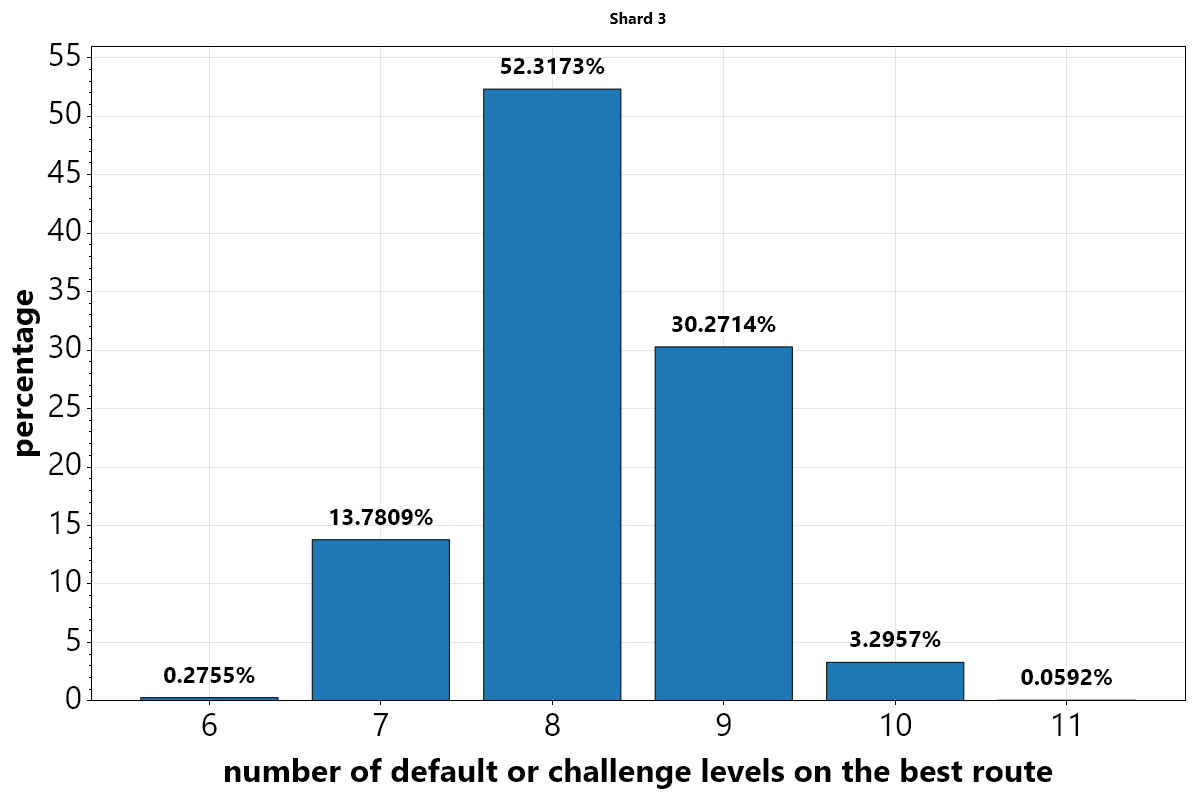
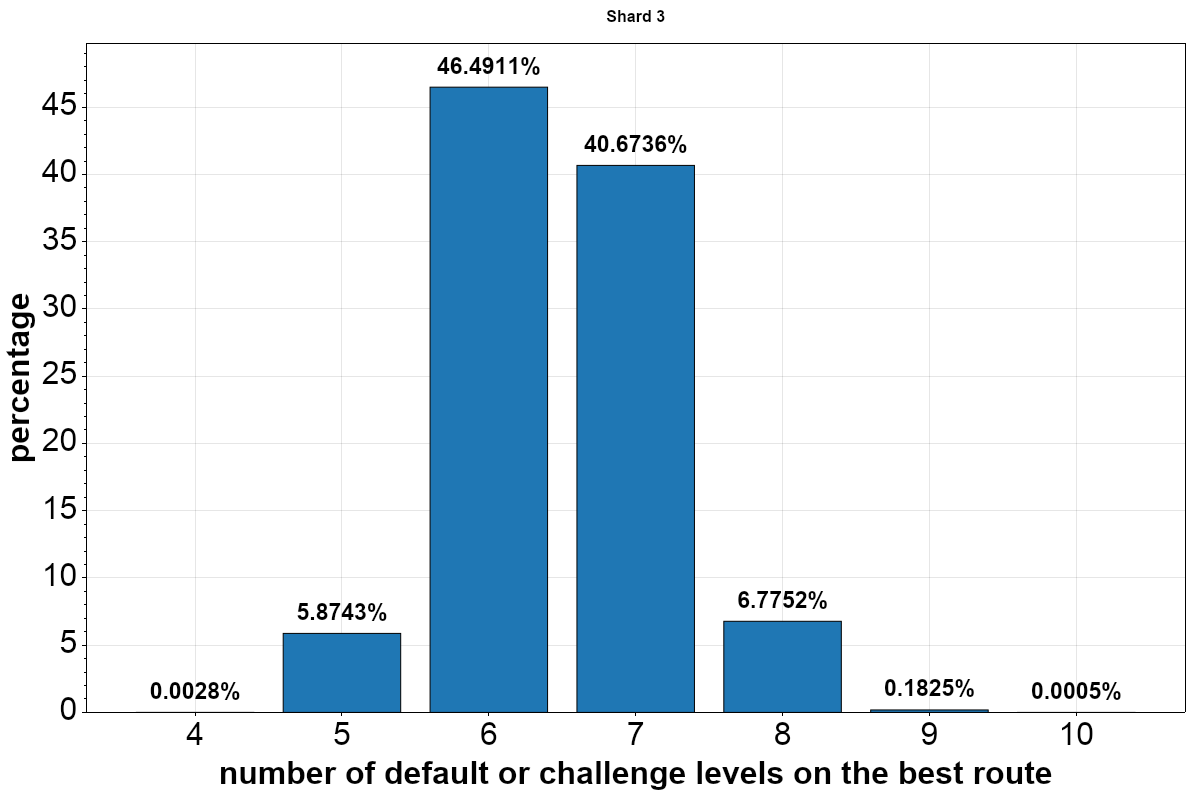
docs: Update analysis for new node count

diff --git a/README.md b/README.md
@@ -10,10 +10,8 @@ You can view layouts using the latest generator at <https://haste.razzleware.de>
 
 Note: The following plots apply to the latest released generator. For analysis of the demo and experimental generator, see [this commit](https://github.com/frereit/haste-world-gen/blob/84093923d5fad3641e5ec86307d1c916ada0c78b/README.md#analysis).
 
-In this analysis, the first one million seeds of every shard were analysed and the best routes were counted. The first forced level of each shard counts towards the default levels in the route, and the shards are 0-indexed so the first shard is "shard 0".
+In this analysis, the first one million seeds of every shard were analysed and the best routes were counted. The first forced level of each shard is not counted.
 
-
-![Shard 0](media/shard0.png)
 ![Shard 1](media/shard1.png)
 ![Shard 2](media/shard2.png)
 ![Shard 3](media/shard3.png)
@@ -23,6 +21,7 @@ In this analysis, the first one million seeds of every shard were analysed and t
 ![Shard 7](media/shard7.png)
 ![Shard 8](media/shard8.png)
 ![Shard 9](media/shard9.png)
+![Shard 10](media/shard10.png)
 
 ## Building
 
